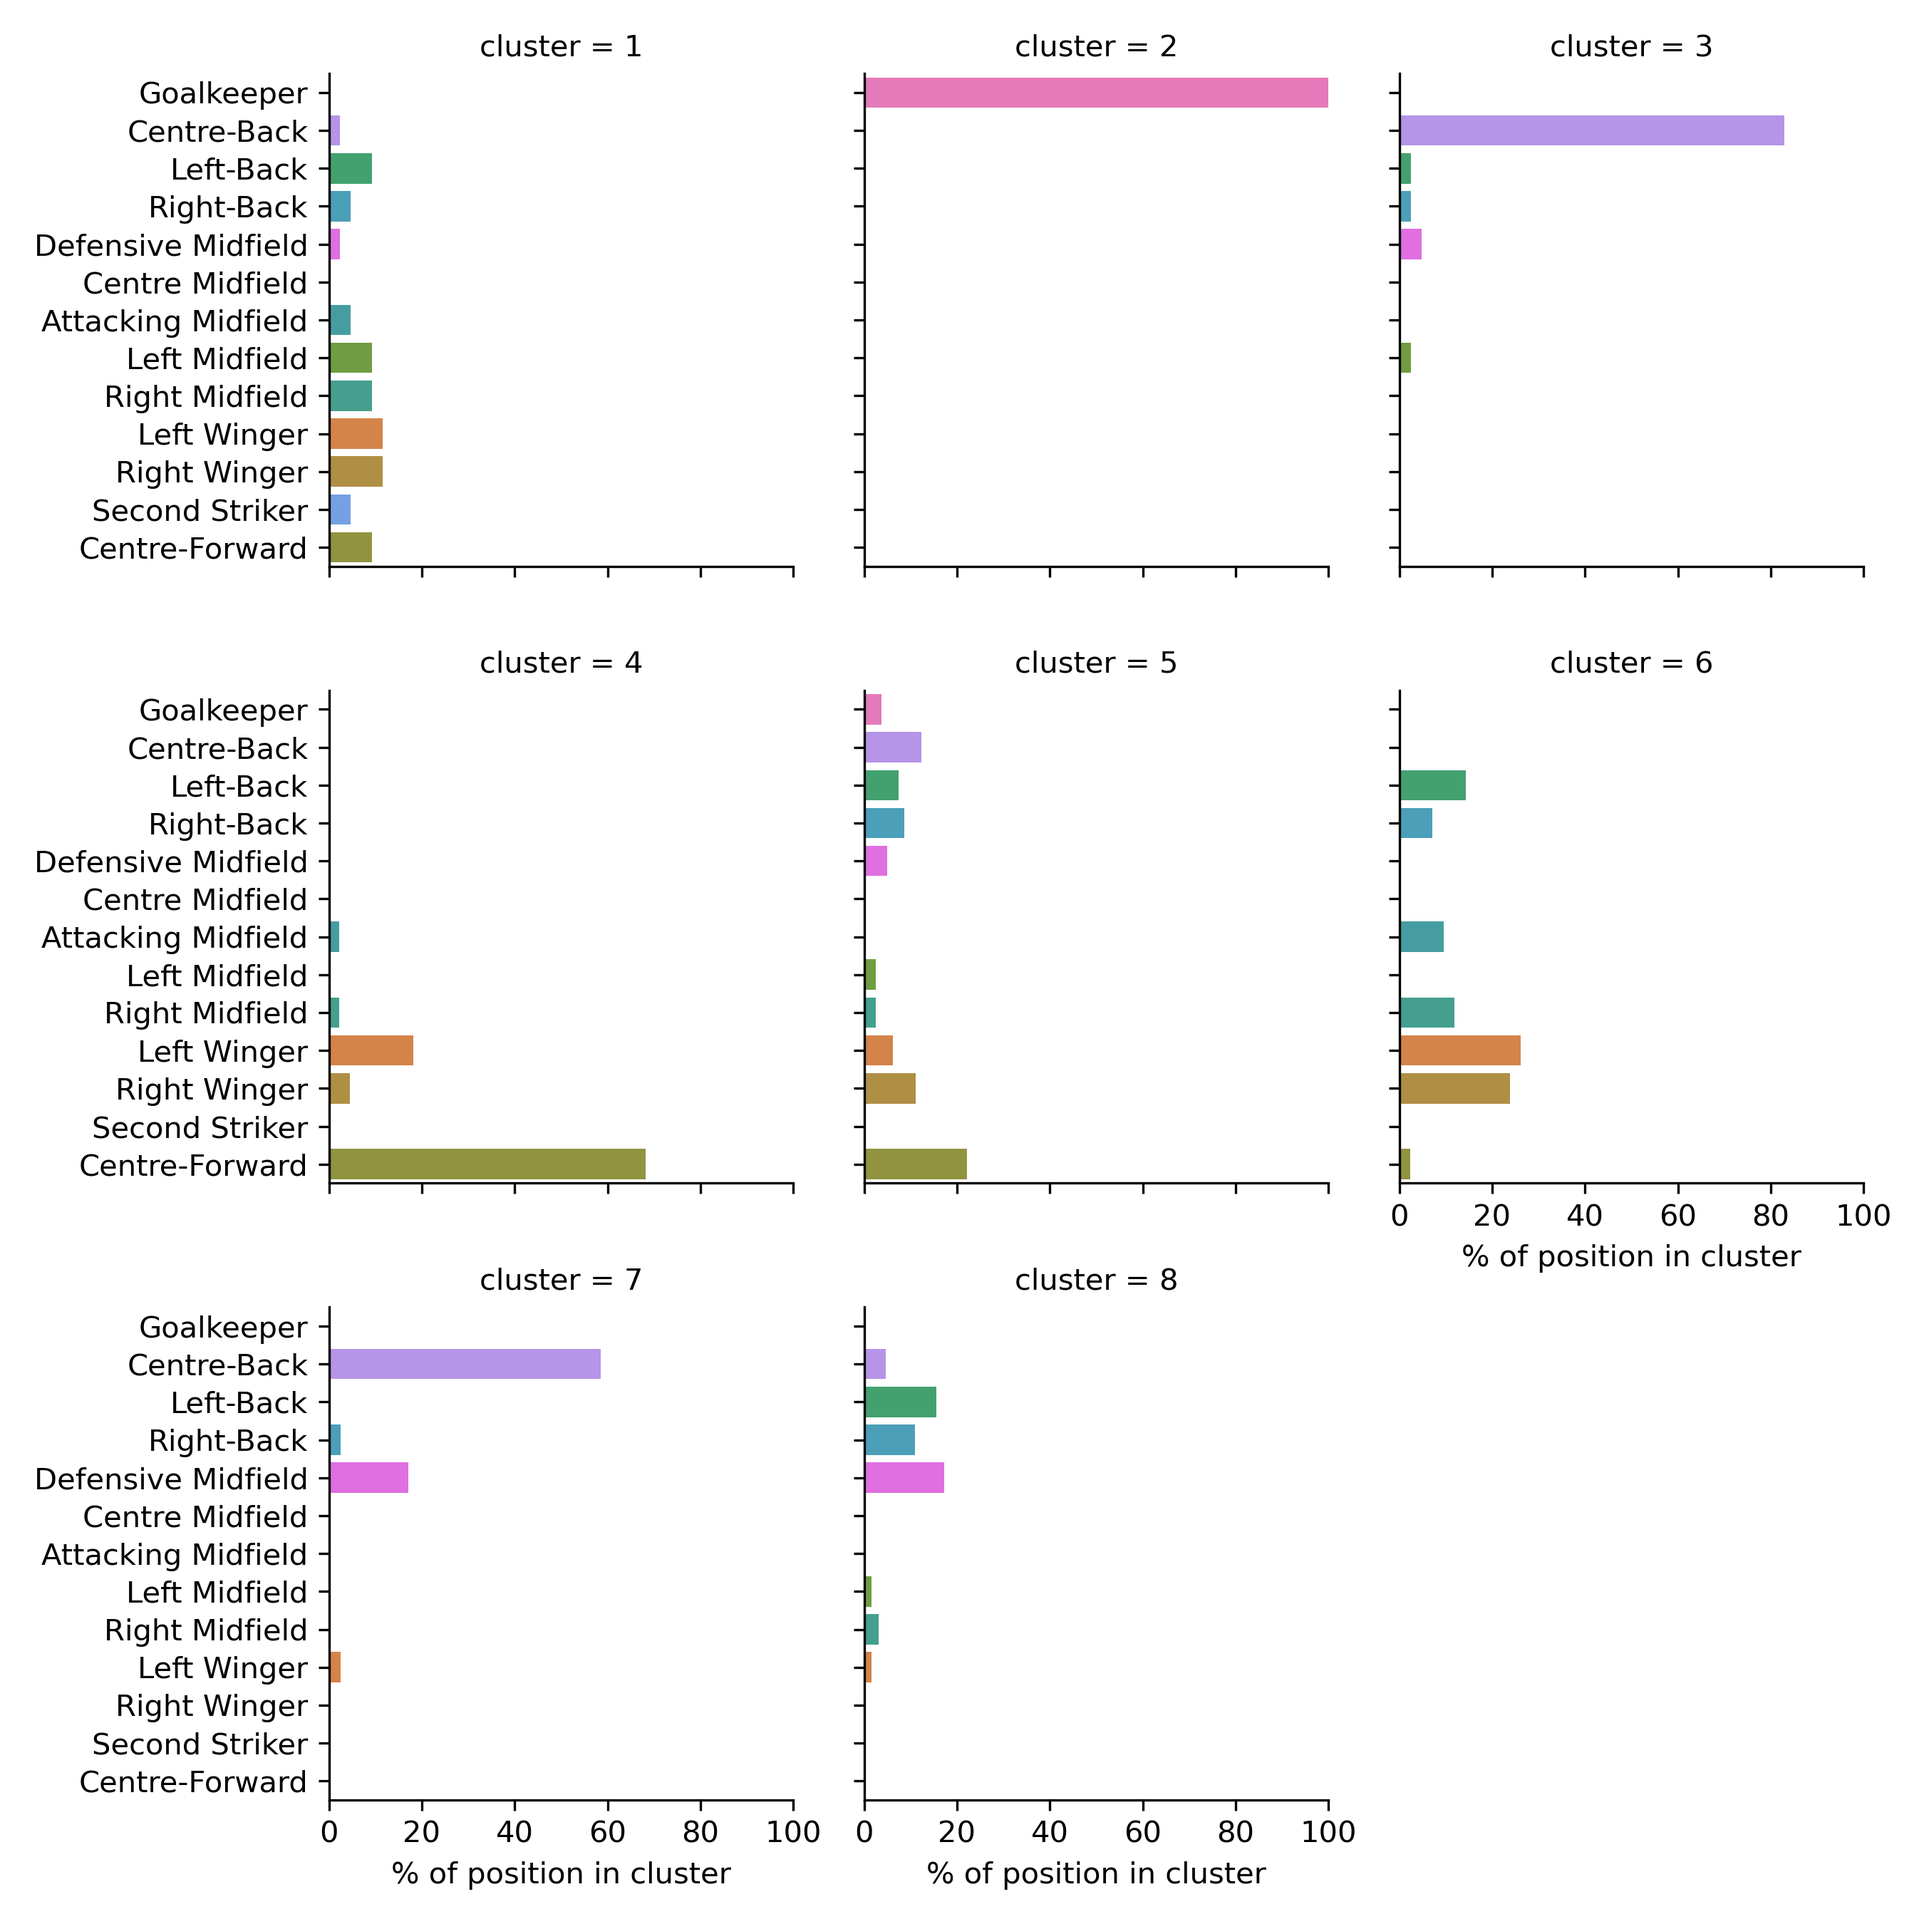
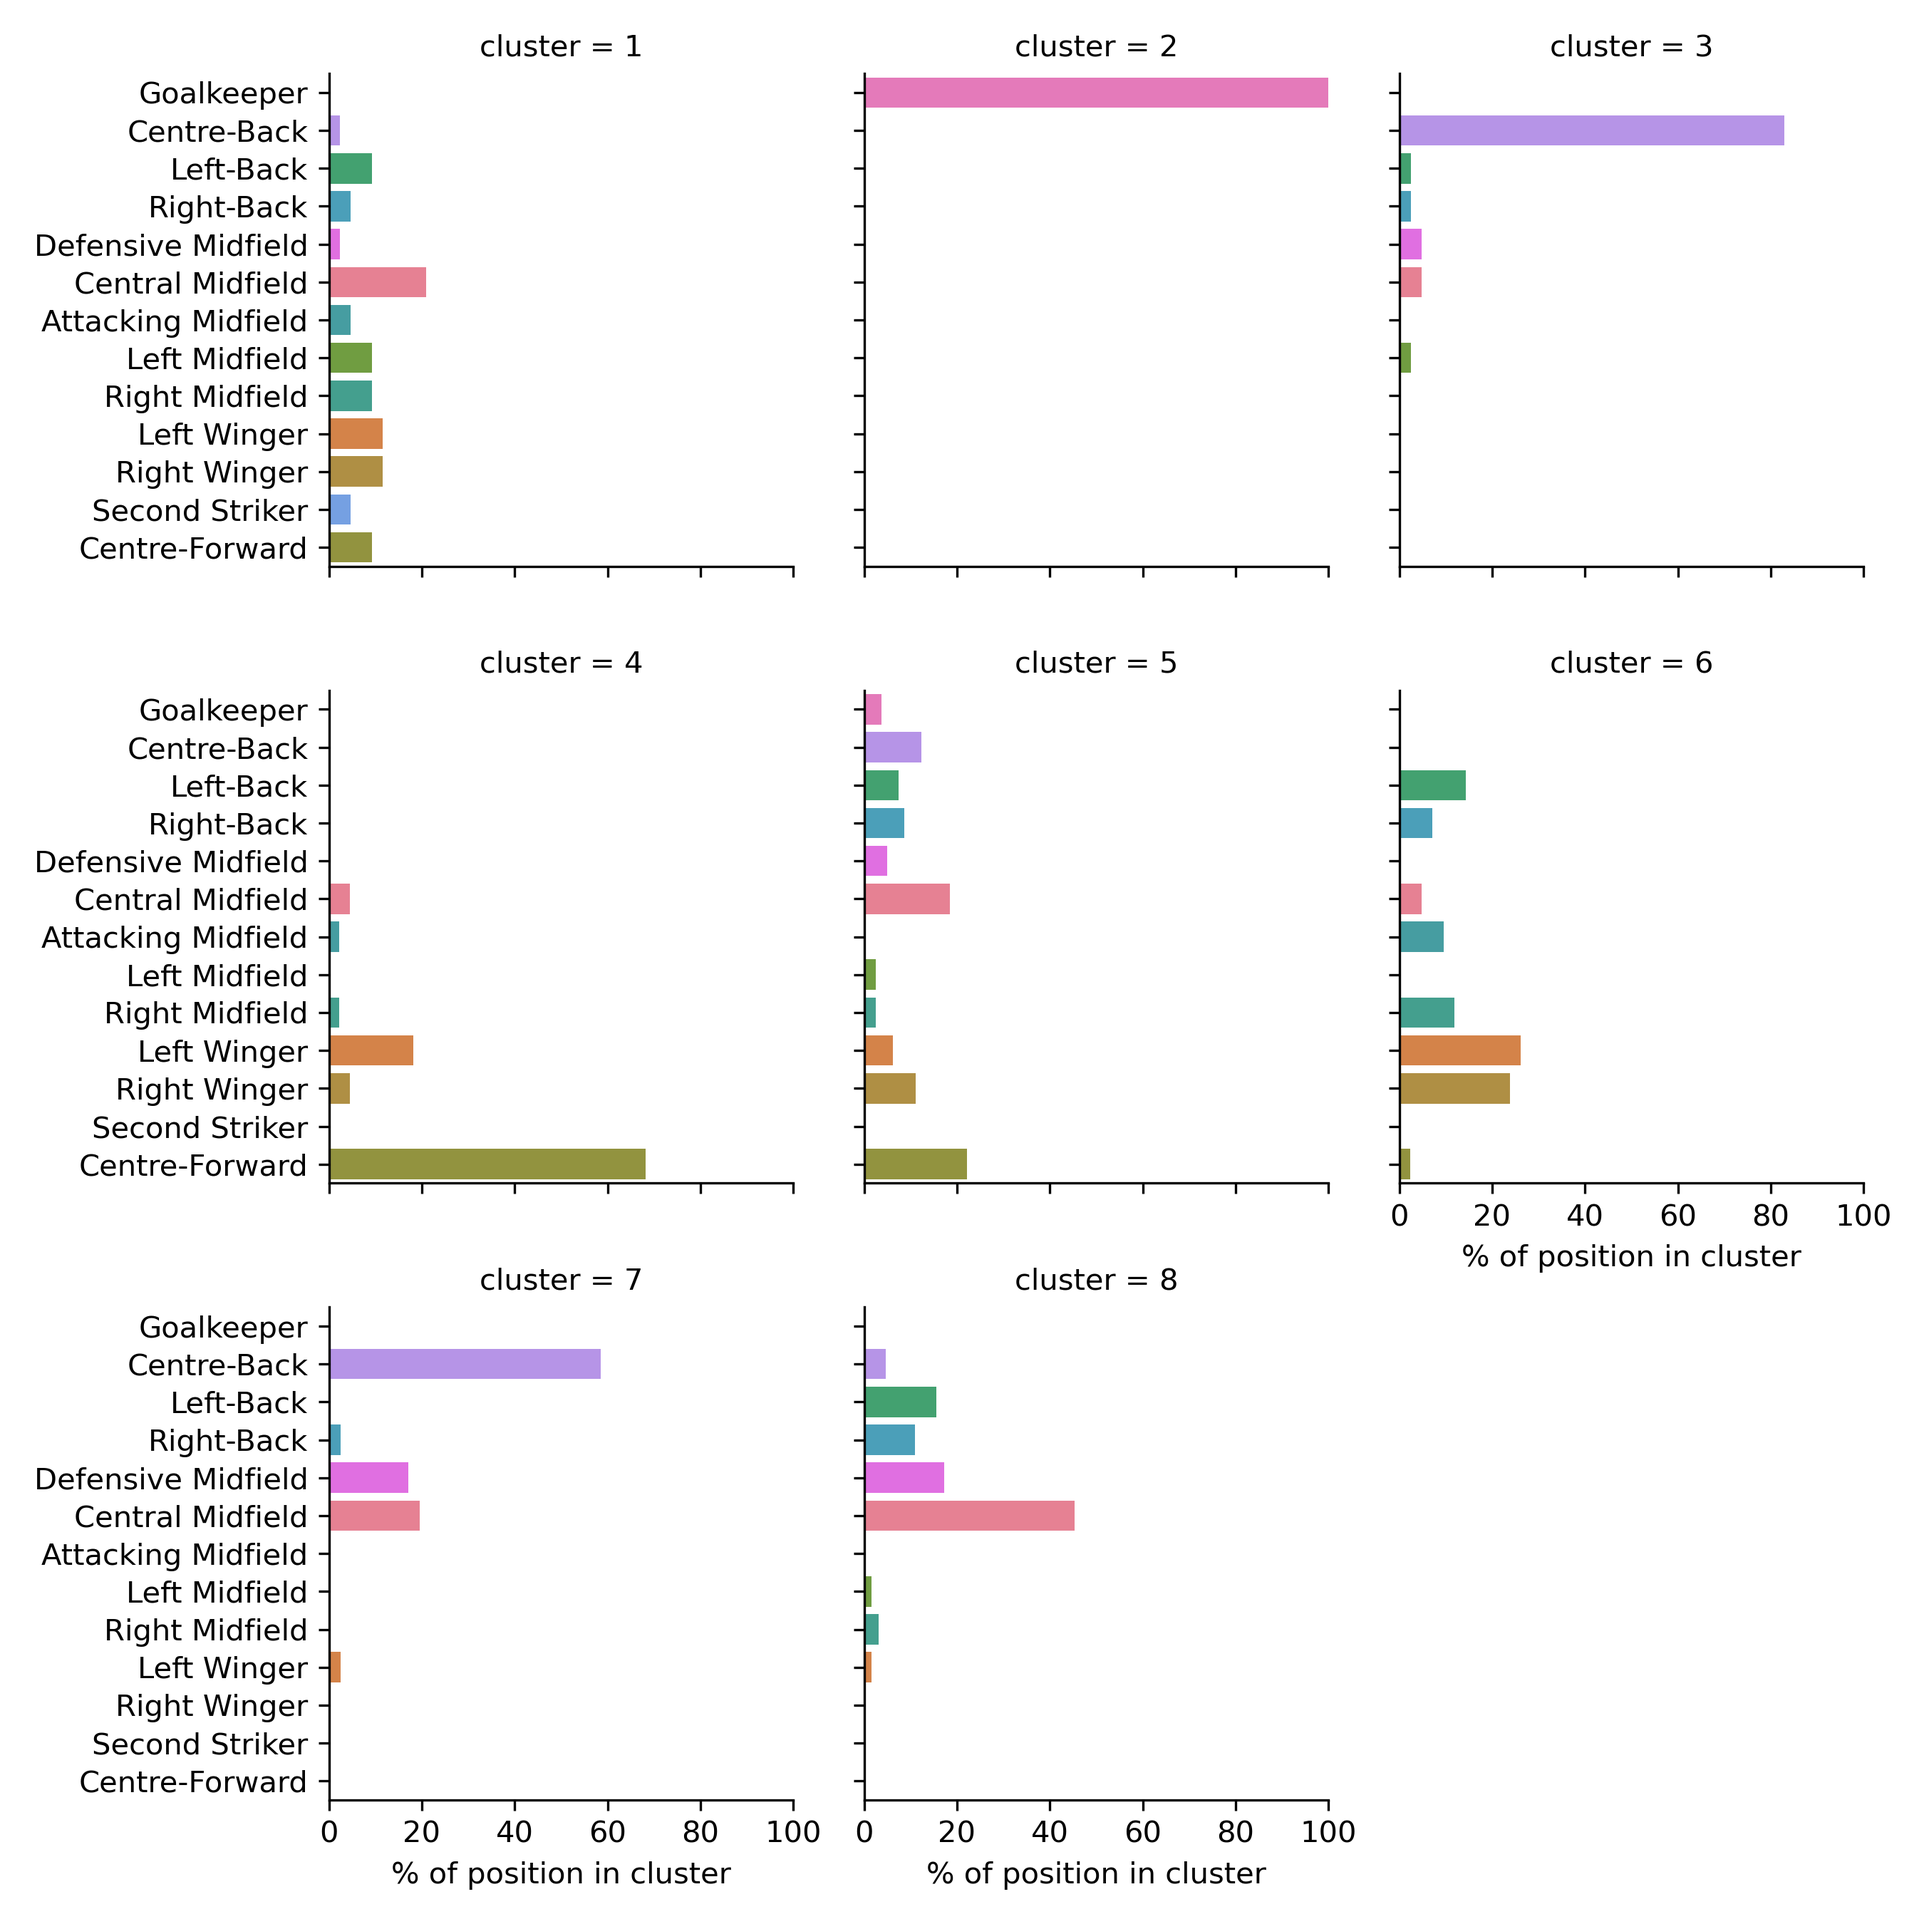
Fixed position names

diff --git a/Scripts/visualizeClustering.py b/Scripts/visualizeClustering.py
@@ -62,7 +62,7 @@ def visualize_position_distribution(all_passing_adjusted_per_90_scaled: DataFram
 
     # Specify the order of the axis in the barplot
     position_order = ["Goalkeeper", "Centre-Back", "Left-Back", "Right-Back",
-                      "Defensive Midfield", "Centre Midfield", "Attacking Midfield",
+                      "Defensive Midfield", "Central Midfield", "Attacking Midfield",
                       "Left Midfield", "Right Midfield", 
                       "Left Winger", "Right Winger", "Second Striker", 
                       "Centre-Forward"]
